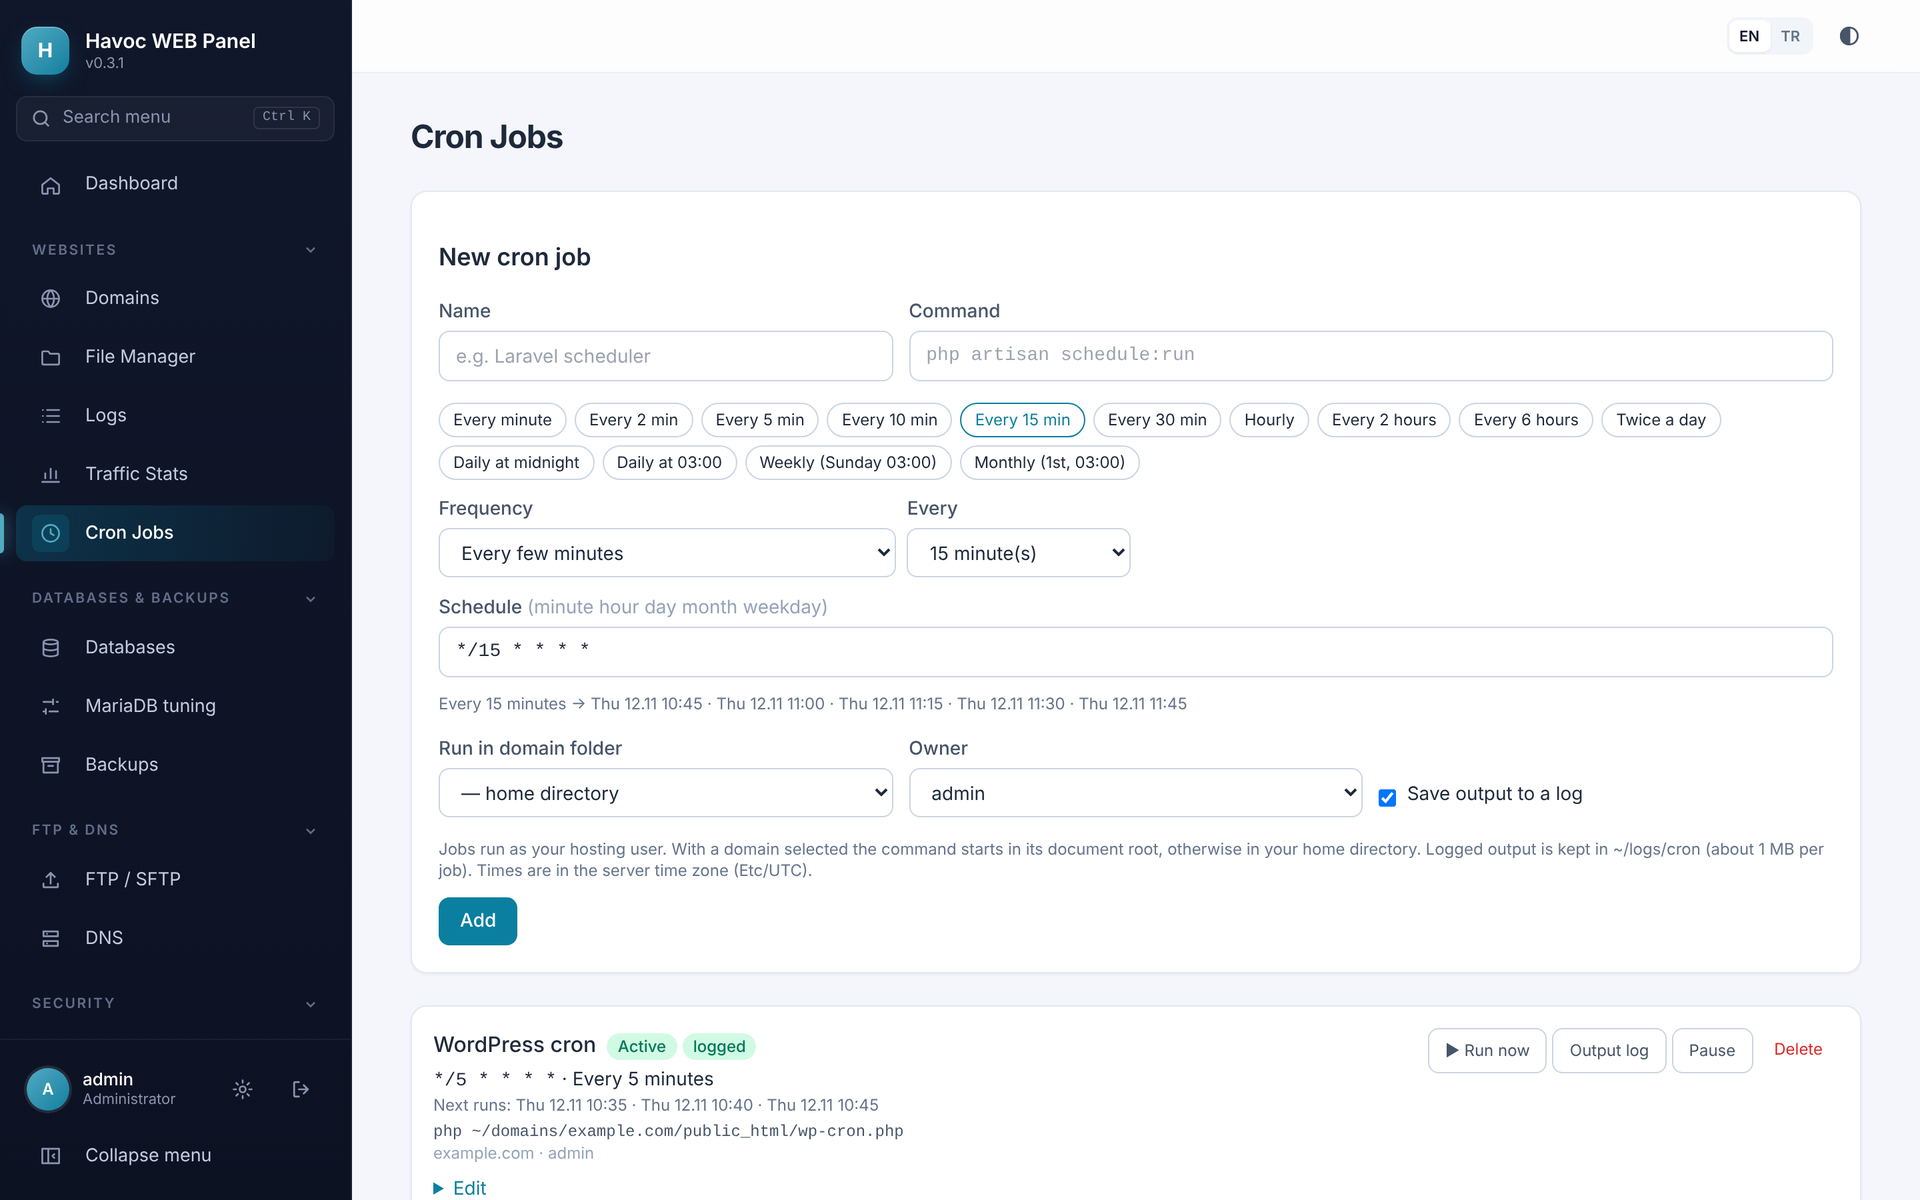
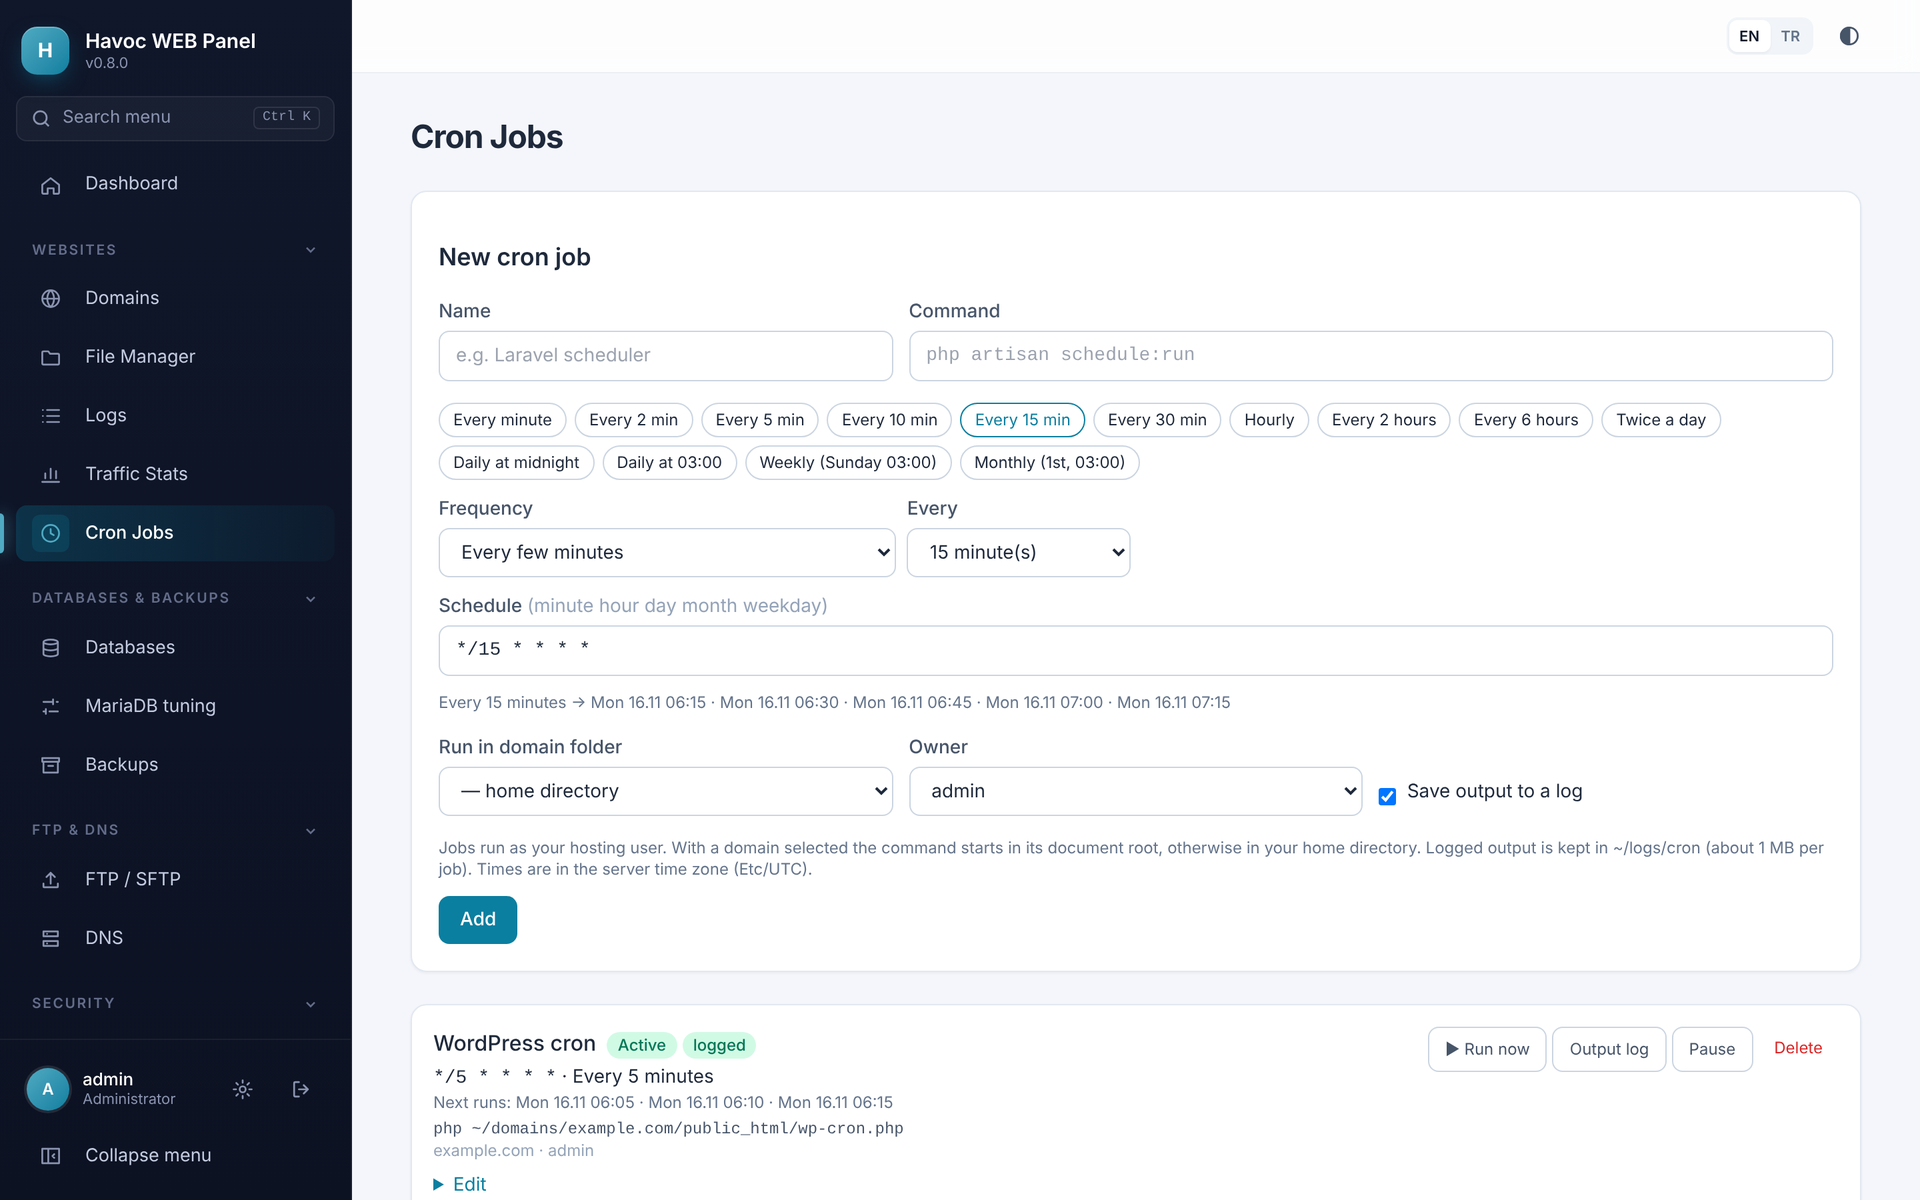
docs: new screenshots and README for 0.8.0
- 15 new English screenshots (dashboard, add-ons, Fail2ban, notifications,
  processes, Claude connector, add-on settings, domain, dark theme, files,
  editor, web server, logs, cron, MariaDB tuning); removed the old
  Redis & Meilisearch and login images
- Features rewritten (Claude connector, add-ons, monitoring &
  notifications), new screenshot gallery, new "First steps" section

Claude-Session: https://claude.ai/code/session_01B3FvhUbu8Z8sjUDPdS7Nqc

diff --git a/README.md b/README.md
@@ -6,8 +6,8 @@
 
 **A modern, secure and completely free web hosting control panel for Debian 12 & 13.**
 
-Manage websites, PHP versions, SSL, databases, files, backups, DNS, FTP/SFTP, firewall and more
-from one clean interface, with no license fees, ever.
+Manage websites, PHP versions, SSL, databases, files, backups, DNS, FTP/SFTP, firewall, add-ons and alerts
+from one clean interface, or simply ask Claude to do it. No license fees, ever.
 
 [![License: MIT](https://img.shields.io/badge/license-MIT-0b7fa0.svg)](LICENSE)
 ![Version](https://img.shields.io/badge/version-0.8.0-0b7fa0.svg)
@@ -20,6 +20,7 @@ from one clean interface, with no license fees, ever.
 [Features](#-features) ·
 [Screenshots](#-screenshots) ·
 [Installation](#-installation) ·
+[First steps](#-first-steps) ·
 [Documentation](docs/ADMIN-GUIDE.md) ·
 [Contributing](CONTRIBUTING.md)
 
@@ -53,8 +54,9 @@ Contributions back to the project are very welcome, but never required.
 
 ### 🤖 Manage your sites by talking to Claude
 - Built-in **Claude connector** (MCP): add it in Claude and say *"add example.com and install WordPress"* or *"publish this page on my site"*
-- Claude adds sites, installs WordPress, writes files, requests SSL, creates databases, reads logs, all with your panel login and rights, never deleting anything
-- Every action in the audit log; end the connection any time
+- Claude adds sites, installs WordPress, writes and edits files, requests SSL, creates databases and reads logs, with your panel login and rights, and never deletes anything
+- **One-time upload links** for big or private code: the zip goes straight from your browser to the server, never through Claude
+- Every change keeps the previous file version; every action is in the audit log
 
 ### 🌐 Websites
 - Domains, subdomains, addon domains, aliases (parked) and redirects
@@ -70,36 +72,41 @@ Contributions back to the project are very welcome, but never required.
 - Automatic rollback if the new server does not answer
 
 ### 📁 Files & logs
-- Advanced **file manager** with a CodeMirror code editor, drag-and-drop chunked uploads (up to 2 GB), zip / tar.gz, search, bulk permissions
+- **File manager** with a CodeMirror code editor, drag-and-drop chunked uploads (up to 2 GB), zip / tar.gz, search, bulk permissions
 - **Log center**: access, error and PHP logs of every site, live viewer with filters, download and cleanup
 
 ### ⏱ Automation
-- **Cron jobs** with presets (every minute, 5 / 15 / 30 min, hourly…), a visual builder, human-readable description and next run times, output logs and *Run now*
+- **Cron jobs** with presets, a visual builder, human-readable description and next run times, output logs and *Run now*
 - Scheduled **backups** (files + databases) to local disk, S3, FTP or SFTP, with one-click restore
 
 </td>
 <td width="50%" valign="top">
 
-### 🗄 Databases & services
-- MariaDB databases and users, remote access per database
-- One-click **phpMyAdmin** (latest release, behind the panel login)
+### 🧩 Add-ons (one-click install / uninstall)
+- **Redis**: memory limit, eviction policy, persistence, random password, PHP extension
+- **Meilisearch**: official release with checksum check, master key, indexing memory
+- **Memcached**: cache size, connections, statistics, empty cache, PHP extension
+- **Fail2ban**: protects SSH/SFTP, FTP and the panel login; rules, whitelist, ban / unban from the panel
+- **Node.js**: 22 / 24 / 26 LTS from NodeSource, version switch, pm2 / yarn / pnpm
+
+### 🔔 Monitoring & notifications
+- **Dashboard** with the server's IP addresses, OS, live CPU, load, network, memory and free disk
+- **Processes** page: live list with per-user totals; end runaway processes of hosting accounts
+- **Alerts by e-mail (SMTP) and Telegram**: full disks, high memory or load, stopped services, expiring SSL certificates, failed backups, new panel versions; reminders and "resolved" messages
+- Server monitor, service control, resource limits, traffic statistics with CSV export
+
+### 🗄 Databases, DNS & FTP
+- MariaDB databases and users, remote access per database, one-click **phpMyAdmin**
 - **MariaDB performance tuning** with RAM-based profiles and automatic rollback
-- **Add-ons**, one-click install / uninstall with their own settings pages: **Redis**, **Meilisearch**, **Memcached**, **Node.js** (LTS from NodeSource, pm2 / yarn / pnpm)
+- Authoritative **DNS** (BIND9) with record validation
+- **FTP** (Pure-FTPd, TLS) and **SFTP** (chrooted) accounts
 
 ### 🔐 Security
 - Admin / reseller / user roles with strict tenant isolation
 - **Two-factor authentication (TOTP)**, brute-force protection, audit log
 - CSRF protection, strict Content-Security-Policy, prepared statements, Argon2id
 - **ModSecurity WAF** with OWASP CRS, **firewall** (ufw) with lock-out protection
-- **Fail2ban** add-on: bans addresses that keep failing SSH, FTP or panel logins; ban / unban and whitelist from the panel
 - Privileged actions run through a small, whitelisted root helper; the web panel itself runs unprivileged
-
-### 📡 DNS, FTP & monitoring
-- Authoritative **DNS** (BIND9) with record validation
-- **FTP** (Pure-FTPd, TLS) and **SFTP** (chrooted) accounts
-- Server overview on the dashboard (IP addresses, OS, CPU, memory, free disk), live process list with ending of runaway account processes
-- Server monitor, service control, resource limits, traffic statistics with CSV export
-- **Notifications by e-mail (SMTP) and Telegram**: full disks, high memory or load, stopped services, expiring SSL certificates, failed backups, new panel versions — with reminders and "resolved" messages
 
 ### 🏢 For hosting companies
 - **Resellers**, hosting packages with CPU / RAM / disk / bandwidth limits
@@ -118,24 +125,32 @@ Contributions back to the project are very welcome, but never required.
 
 <table>
 <tr>
-<td width="50%"><img src="docs/screenshots/domain.png" alt="Domain settings"><br><sub><b>Domain settings</b>: PHP version, OPcache, extensions, SSL and security in one place.</sub></td>
+<td width="50%"><img src="docs/screenshots/addons.png" alt="Add-ons"><br><sub><b>Add-ons</b>: Redis, Meilisearch, Memcached, Fail2ban and Node.js, installed and removed with one click.</sub></td>
+<td width="50%"><img src="docs/screenshots/fail2ban.png" alt="Fail2ban"><br><sub><b>Fail2ban</b>: protection for SSH, FTP and the panel login, with ban list, unban and whitelist.</sub></td>
+</tr>
+<tr>
+<td width="50%"><img src="docs/screenshots/notifications.png" alt="Notifications"><br><sub><b>Notifications</b>: e-mail and Telegram alerts for disks, services, SSL, backups and updates.</sub></td>
+<td width="50%"><img src="docs/screenshots/processes.png" alt="Processes"><br><sub><b>Processes</b>: live process list with per-user totals; end runaway account processes.</sub></td>
+</tr>
+<tr>
+<td width="50%"><img src="docs/screenshots/claude-connector.png" alt="Claude connector"><br><sub><b>Claude connector</b>: approve Claude once, then manage your sites by chatting.</sub></td>
+<td width="50%"><img src="docs/screenshots/redis.png" alt="Add-on settings"><br><sub><b>Add-on settings</b>: every add-on has its own page with status and settings.</sub></td>
+</tr>
+<tr>
+<td width="50%"><img src="docs/screenshots/domain.png" alt="Domain settings"><br><sub><b>Domain settings</b>: PHP version, OPcache, extensions, SSL, WordPress and security in one place.</sub></td>
 <td width="50%"><img src="docs/screenshots/domain-dark.png" alt="Dark theme"><br><sub><b>Dark theme</b>: every page, remembered per user.</sub></td>
 </tr>
 <tr>
-<td><img src="docs/screenshots/file-manager.png" alt="File manager"><br><sub><b>File manager</b>: upload, edit, compress, extract and set permissions.</sub></td>
-<td><img src="docs/screenshots/code-editor.png" alt="Code editor"><br><sub><b>Code editor</b>: syntax highlighting, <kbd>Ctrl</kbd>+<kbd>S</kbd> to save.</sub></td>
+<td width="50%"><img src="docs/screenshots/file-manager.png" alt="File manager"><br><sub><b>File manager</b>: upload, edit, compress, extract and set permissions.</sub></td>
+<td width="50%"><img src="docs/screenshots/code-editor.png" alt="Code editor"><br><sub><b>Code editor</b>: syntax highlighting, <kbd>Ctrl</kbd>+<kbd>S</kbd> to save.</sub></td>
 </tr>
 <tr>
-<td><img src="docs/screenshots/web-server.png" alt="Web server selection"><br><sub><b>Web server selection</b>: Nginx, OpenLiteSpeed or LiteSpeed Enterprise.</sub></td>
-<td><img src="docs/screenshots/log-viewer.png" alt="Log viewer"><br><sub><b>Live log viewer</b>: access, error and PHP logs with filters.</sub></td>
+<td width="50%"><img src="docs/screenshots/web-server.png" alt="Web server selection"><br><sub><b>Web server selection</b>: Nginx, OpenLiteSpeed or LiteSpeed Enterprise.</sub></td>
+<td width="50%"><img src="docs/screenshots/log-viewer.png" alt="Live log viewer"><br><sub><b>Live log viewer</b>: access, error and PHP logs with filters.</sub></td>
 </tr>
 <tr>
-<td><img src="docs/screenshots/cron.png" alt="Cron jobs"><br><sub><b>Cron jobs</b>: presets, schedule builder and next run times.</sub></td>
-<td><img src="docs/screenshots/mariadb-tuning.png" alt="MariaDB tuning"><br><sub><b>MariaDB tuning</b>: profiles calculated from the server's memory.</sub></td>
-</tr>
-<tr>
-<td><img src="docs/screenshots/redis-meilisearch.png" alt="Redis and Meilisearch"><br><sub><b>Redis & Meilisearch</b>: one-click install and configuration.</sub></td>
-<td><img src="docs/screenshots/login.png" alt="Login"><br><sub><b>Login</b>: with optional two-factor authentication.</sub></td>
+<td width="50%"><img src="docs/screenshots/cron.png" alt="Cron jobs"><br><sub><b>Cron jobs</b>: presets, schedule builder and next run times.</sub></td>
+<td width="50%"><img src="docs/screenshots/mariadb-tuning.png" alt="MariaDB tuning"><br><sub><b>MariaDB tuning</b>: profiles calculated from the server's memory.</sub></td>
 </tr>
 </table>
 
@@ -158,6 +173,7 @@ Havoc WEB Panel is also an [MCP](https://modelcontextprotocol.io) server, so Cla
 **What Claude can do:** list and inspect sites, search code, read files (or just some lines), edit files by changing only the relevant text, write one or many files, extract an uploaded zip / tar.gz, download a file from an https link into a site, undo its own changes (file history), read logs, add domains and subdomains, install WordPress, request SSL, change PHP version / HTTPS redirect, create databases.
 
 **Keeping it cheap:** for large or private code, ask Claude for an *upload link*: you drop the zip into that page in your browser, it goes straight to the server, and Claude extracts it. The files never pass through Claude. For changes, Claude searches, reads only the lines it needs and edits just those; every changed file keeps its previous version.
+
 **What Claude cannot do:** delete websites, databases or files. It acts with the rights of the panel user who approved it, so a customer's connection only reaches that customer's sites. Every action is written to the audit log; connections are listed and can be ended under **Settings → Claude connector**, and the administrator can switch the connector off for the whole panel.
 
 Technically: Streamable HTTP MCP endpoint at `/mcp`, OAuth 2.1 with dynamic client registration and PKCE (S256), rotating refresh tokens, tokens stored as hashes.
@@ -171,7 +187,7 @@ Technically: Streamable HTTP MCP endpoint at `/mcp`, OAuth 2.1 with dynamic clie
 | **Operating system** | A fresh **Debian 12 (Bookworm)** or **Debian 13 (Trixie)** server |
 | **Access** | `root` (or a user with `sudo`) |
 | **Hardware** | 64-bit x86_64 (arm64 is expected to work but is less tested). 1 GB RAM minimum, 2 GB or more recommended |
-| **Network** | A public IPv4 address. Ports 80 and 443 (websites) and 2087 (panel) must be reachable |
+| **Network** | A public IPv4 address. Ports 80 and 443 (websites, and the panel under its own host name) and 2087 (panel) must be reachable |
 
 > ⚠ Install the panel on a **clean server**. It configures Nginx, PHP-FPM, MariaDB, BIND9, Pure-FTPd, ufw and other services and is not meant to be added to a server that already hosts websites with another panel.
 
@@ -239,6 +255,21 @@ Every update keeps your configuration, encryption key, certificates, database an
 
 ---
 
+## 👣 First steps
+
+After logging in for the first time:
+
+1. **Secure your account**: *Settings* → change the password and turn on **two-factor authentication**.
+2. **Give the panel a name**: *Panel settings → Panel address and certificate*: enter a host name such as `panel.example.com` (A record pointing to the server) and click *Get certificate*. The panel is then reachable at `https://panel.example.com` with a trusted certificate (needed for the Claude connector).
+3. **Add a website**: *Domains → Add domain*. Point the domain's DNS to the server; a Let's Encrypt certificate is requested automatically. On the domain page choose the PHP version or click **Install WordPress**.
+4. **Upload your files**: with the *File Manager*, FTP/SFTP accounts or a one-time *Upload link*.
+5. **Protect the server**: *Add-ons → Fail2ban → Install*, then add your own IP address to the whitelist.
+6. **Get alerts**: *Server → Notifications*: enter an SMTP account and/or a Telegram bot, click *Send test*, choose what to report.
+7. **Set up backups**: *Backups*: schedule daily backups to local disk, S3, FTP or SFTP.
+8. **Optional**: install Redis or Memcached for caching, Meilisearch for search, Node.js for build tools, and connect Claude (see above).
+
+---
+
 ## 🏗 How it works
 
 ```
@@ -249,7 +280,9 @@ Browser ──HTTPS──▶ havoc-panel-nginx ──▶ havoc-panel-fpm  (user 
                                          havocctl (root helper, strict validation)
                                               ├── web server driver: Nginx │ OpenLiteSpeed │ LiteSpeed
                                               ├── PHP-FPM master per site (own Linux user, cgroup limits)
-                                              └── MariaDB, BIND9, Pure-FTPd, ufw, certbot, …
+                                              └── MariaDB, BIND9, Pure-FTPd, ufw, certbot, add-ons, …
+
+havoc-alerts.timer (every 5 min, user "havoc") ──▶ server checks ──▶ e-mail / Telegram
 ```
 
 - The panel is plain **PHP 8.2+ without a framework**, with **SQLite** for its own data and **Tailwind CSS** for the interface.
